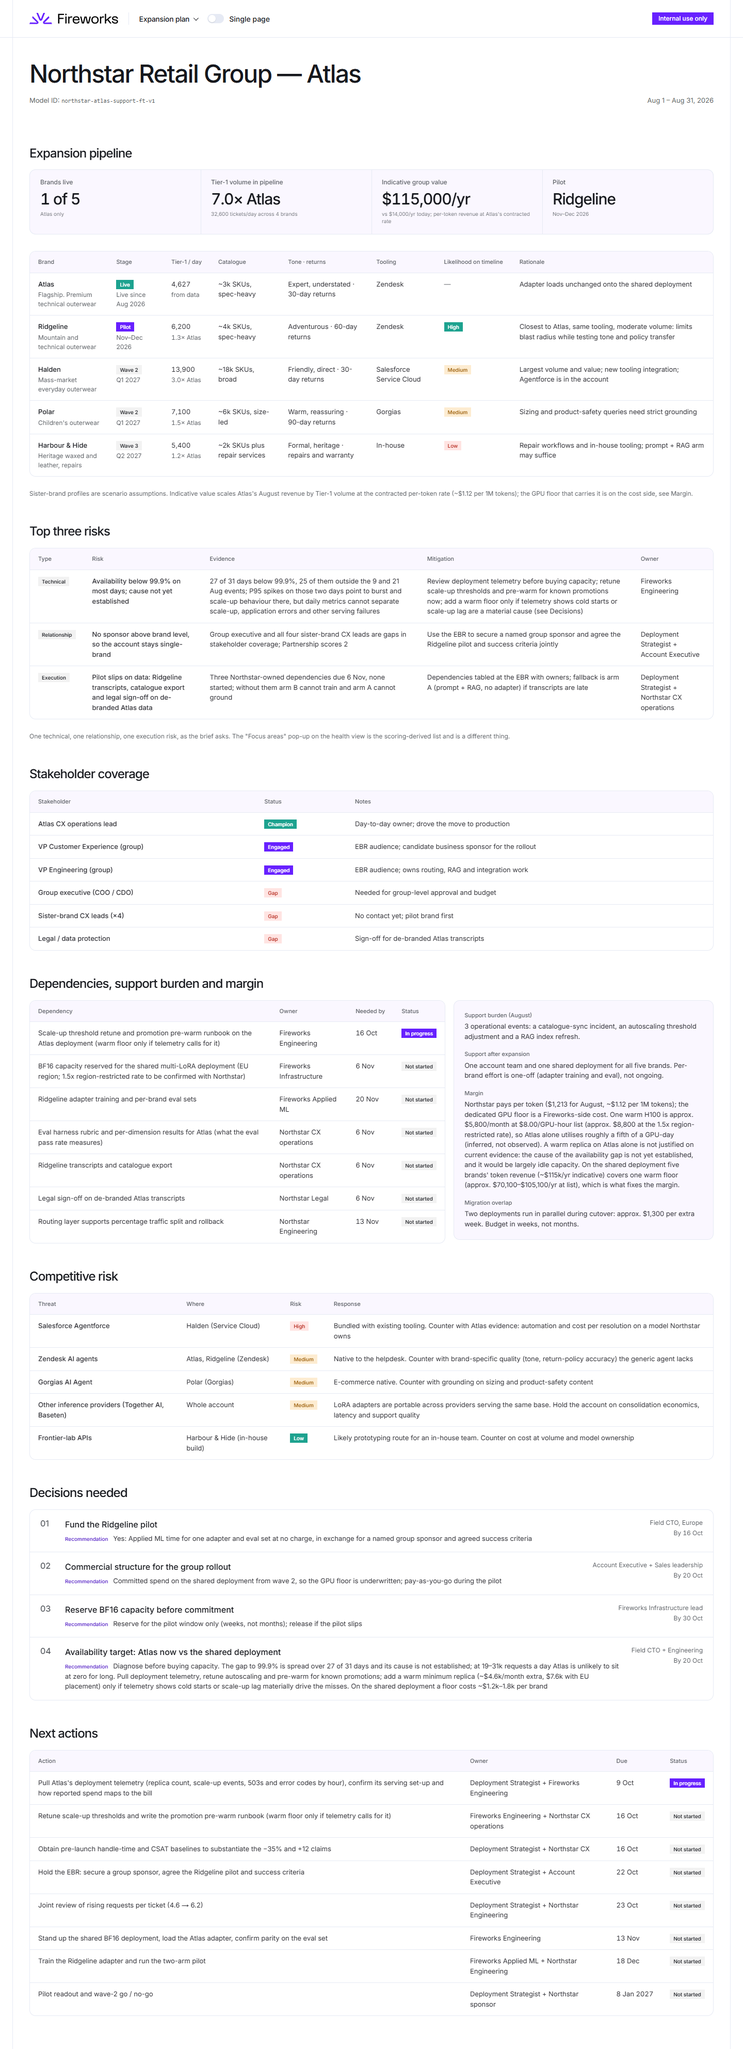
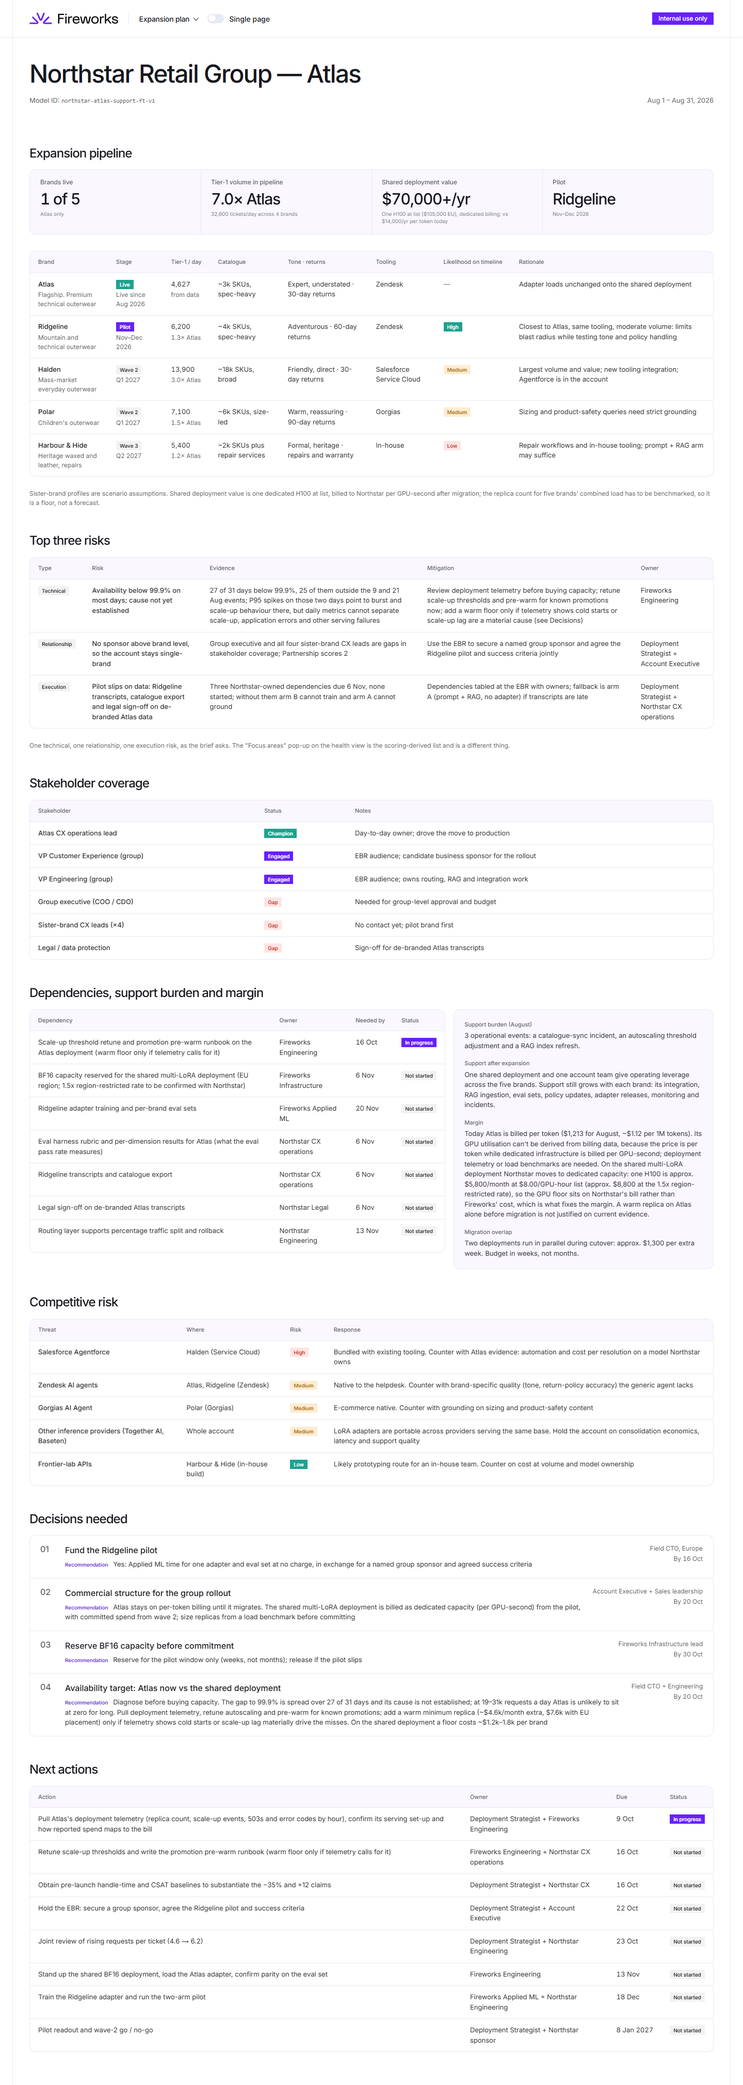
Billing: per-token today, dedicated capacity after migration; drop GPU-utilisation inference; support scales per brand (#78, #79)

diff --git a/internal-qbr/src/views/PlanView.tsx b/internal-qbr/src/views/PlanView.tsx
@@ -45,9 +45,9 @@ export function PlanView({ m }: { m: Model }) {
             sub={`${fmtInt(sisters.reduce((s, b) => s + b.tickets, 0))} tickets/day across ${sisters.length} brands`}
           />
           <KpiTile
-            label="Indicative group value"
-            value={`${fmtUsd(Math.round((atlasAnnual * groupMultiple) / 1000) * 1000)}/yr`}
-            sub={`vs ${fmtUsd(Math.round(atlasAnnual / 1000) * 1000)}/yr today; per-token revenue at Atlas's contracted rate`}
+            label="Shared deployment value"
+            value={`${fmtUsd(Math.round((WARM_H100_MONTH * 12) / 1000) * 1000)}+/yr`}
+            sub={`One H100 at list (${fmtUsd(Math.round((WARM_H100_MONTH_EU * 12) / 1000) * 1000)} EU), dedicated billing; vs ${fmtUsd(Math.round(atlasAnnual / 1000) * 1000)}/yr per token today`}
           />
           <KpiTile label="Pilot" value={pilot?.name ?? '—'} sub={pilot?.timing} />
         </div>
@@ -92,7 +92,7 @@ export function PlanView({ m }: { m: Model }) {
           </table>
         </div>
         <p className="table__caption">
-          Sister-brand profiles are scenario assumptions. Indicative value scales Atlas's August revenue by Tier-1 volume at the contracted per-token rate (~$1.12 per 1M tokens); the GPU floor that carries it is on the cost side, see Margin.
+          Sister-brand profiles are scenario assumptions. Shared deployment value is one dedicated H100 at list, billed to Northstar per GPU-second after migration; the replica count for five brands' combined load has to be benchmarked, so it is a floor, not a forecast.
         </p>
       </Section>
 
@@ -191,22 +191,22 @@ export function PlanView({ m }: { m: Model }) {
             <div>
               <dt>Support after expansion</dt>
               <dd>
-                One account team and one shared deployment for all five brands. Per-brand effort is one-off (adapter
-                training and eval), not ongoing.
+                One shared deployment and one account team give operating leverage across the five brands. Support still
+                grows with each brand: its integration, RAG ingestion, eval sets, policy updates, adapter releases,
+                monitoring and incidents.
               </dd>
             </div>
             <div>
               <dt>Margin</dt>
               <dd>
-                {`Northstar pays per token (${fmtUsd(m.totalSpend)} for August, ~$1.12 per 1M tokens); the dedicated ` +
-                  `GPU floor is a Fireworks-side cost. One warm H100 is approx. ${round100(WARM_H100_MONTH)}/month at ` +
-                  `${fmtUsd(H100_PER_HOUR, 2)}/GPU-hour list (approx. ${round100(WARM_H100_MONTH_EU)} at the ` +
-                  `${REGION_PREMIUM}x region-restricted rate), so Atlas alone utilises roughly a fifth of a GPU-day ` +
-                  `(inferred, not observed). A warm replica on Atlas alone is not justified on current evidence: the cause of ` +
-                  `the availability gap is not yet established, and it would be largely idle capacity. On the shared ` +
-                  `deployment five brands' token revenue (~$115k/yr indicative) covers one warm floor ` +
-                  `(approx. ${round100(WARM_H100_MONTH * 12)}–${round100(WARM_H100_MONTH_EU * 12)}/yr at list), which ` +
-                  `is what fixes the margin.`}
+                {`Today Atlas is billed per token (${fmtUsd(m.totalSpend)} for August, ~$1.12 per 1M tokens). Its GPU ` +
+                  `utilisation can't be derived from billing data, because the price is per token while dedicated ` +
+                  `infrastructure is billed per GPU-second; deployment telemetry or load benchmarks are needed. On the shared ` +
+                  `multi-LoRA deployment Northstar moves to dedicated capacity: one H100 is approx. ` +
+                  `${round100(WARM_H100_MONTH)}/month at ${fmtUsd(H100_PER_HOUR, 2)}/GPU-hour list (approx. ` +
+                  `${round100(WARM_H100_MONTH_EU)} at the ${REGION_PREMIUM}x region-restricted rate), so the GPU floor ` +
+                  `sits on Northstar's bill rather than Fireworks' cost, which is what fixes the margin. A warm replica on ` +
+                  `Atlas alone before migration is not justified on current evidence.`}
               </dd>
             </div>
             <div>

diff --git a/internal-qbr/src/judgements.ts b/internal-qbr/src/judgements.ts
@@ -1,5 +1,5 @@
 import { ACCOUNT } from './account';
-import { WARM_H100_MONTH, WARM_H100_MONTH_EU, fmtUsd, sum, type DailyMetric, type Judgement } from '@northstar/shared';
+import { BRANDS_ON_SHARED_DEPLOYMENT, WARM_H100_MONTH, WARM_H100_MONTH_EU, fmtUsd, sum, type DailyMetric, type Judgement } from '@northstar/shared';
 
 /**
  * Account-team judgement for the two P pillars of RAMP UP.
@@ -30,8 +30,8 @@ export function judgements(rows: DailyMetric[]): Record<'partnership' | 'profita
         'other four brands, which carry significantly higher customer volumes.',
       evidence: [
         `Current revenue: ${fmtUsd(spend)} for August at a contracted ~$1.12 per 1M tokens (approx. ${annualisedK} annualised)`,
-        'Cost to serve: three operational events in month one (catalogue-sync incident, autoscaling threshold adjustment, RAG index refresh). One account team supports all five brands on a single shared deployment, so support effort does not scale per brand',
-        `Deployment economics: Northstar pays per token while the dedicated GPU floor is a Fireworks-side cost. One warm H100 is approx. ${fmtUsd(Math.round(WARM_H100_MONTH / 100) * 100)}/month at list (approx. ${fmtUsd(Math.round(WARM_H100_MONTH_EU / 100) * 100)} at the EU rate), so Atlas alone utilises roughly a fifth of a GPU-day (inferred). No warm floor on Atlas unless telemetry shows it is needed; five brands on one multi-LoRA deployment turn any floor into utilised capacity`,
+        'Cost to serve: three operational events in month one (catalogue-sync incident, autoscaling threshold adjustment, RAG index refresh). Shared infrastructure and account-level overhead create operating leverage across the five brands, but support effort still grows with each brand: integration, RAG ingestion, eval sets, policy updates, adapter releases, monitoring and incidents',
+        `Deployment economics: Atlas is billed per token today, so its GPU utilisation can't be derived from billing; telemetry or load benchmarks are needed. On the shared multi-LoRA deployment Northstar moves to dedicated capacity billed per GPU-second: one H100 is approx. ${fmtUsd(Math.round(WARM_H100_MONTH / 100) * 100)}/month at list (approx. ${fmtUsd(Math.round(WARM_H100_MONTH_EU / 100) * 100)} at the EU rate), or approx. ${fmtUsd(Math.round(WARM_H100_MONTH / BRANDS_ON_SHARED_DEPLOYMENT / 100) * 100)}–${fmtUsd(Math.round(WARM_H100_MONTH_EU / BRANDS_ON_SHARED_DEPLOYMENT / 100) * 100)} per brand`,
         'Strategic value: a recognised retail logo and a reference account for EMEA retail',
         'Upside: rollout to the four sister brands, each with its own catalogue, tone of voice and return policies. Each brand gets a dedicated LoRA adapter, RAG index and system prompt on the same open-weight base as Atlas',
       ],

diff --git a/customer-health/src/views/SpendView.tsx b/customer-health/src/views/SpendView.tsx
@@ -78,7 +78,7 @@ export function SpendView({ m, showEvents = true }: { m: Model; showEvents?: boo
           <div>
             <dt>On the shared deployment</dt>
             <dd>
-              {`On the shared ${BRANDS_ON_SHARED_DEPLOYMENT}-brand deployment the same always-on capacity works out at approx. ` +
+              {`The shared ${BRANDS_ON_SHARED_DEPLOYMENT}-brand deployment is billed as dedicated capacity; one always-on replica works out at approx. ` +
                 `${round100(WARM_H100_MONTH / BRANDS_ON_SHARED_DEPLOYMENT)}–${round100(WARM_H100_MONTH_EU / BRANDS_ON_SHARED_DEPLOYMENT)} ` +
                 'per brand per month.'}
             </dd>

diff --git a/internal-qbr/src/plan.ts b/internal-qbr/src/plan.ts
@@ -180,7 +180,7 @@ export const DECISIONS: Decision[] = [
     decision: 'Commercial structure for the group rollout',
     owner: 'Account Executive + Sales leadership',
     by: '20 Oct',
-    recommendation: 'Committed spend on the shared deployment from wave 2, so the GPU floor is underwritten; pay-as-you-go during the pilot',
+    recommendation: 'Atlas stays on per-token billing until it migrates. The shared multi-LoRA deployment is billed as dedicated capacity (per GPU-second) from the pilot, with committed spend from wave 2; size replicas from a load benchmark before committing',
   },
   {
     decision: 'Reserve BF16 capacity before commitment',

diff --git a/docs/ARCHITECTURE.md b/docs/ARCHITECTURE.md
@@ -27,7 +27,7 @@ Every number below is from [fireworks.ai/pricing](https://fireworks.ai/pricing) 
 | 1 | Atlas is a **LoRA adapter on an open-weight base**, trained on Atlas data only | Fireworks' managed fine-tuning produces LoRA adapters |
 | 2 | Atlas is served by **live merge on its own on-demand (dedicated) deployment** | "Neither custom base models nor LoRA addons are supported for serverless inference. All user-provided models, including trained models, require a dedicated deployment." Live merge is the single-model path, with performance "indistinguishable from a fully trained model" |
 | 3 | The deployment **autoscales** | The 21 Aug note ("autoscaling threshold adjusted") is a dedicated-deployment lever; the 9 and 21 Aug P95 spikes look like replica scale-up lag under burst |
-| 4 | **`spend_usd` tracks tokens at a constant ~$1.12 per 1M** ($1.110–1.123 on every day of August); treated as **Northstar's contracted per-token rate on dedicated capacity** (enterprise terms). The GPU floor is a Fireworks-side cost. **Utilisation (~20% of a GPU-day at list rates) is inferred, not observed** | A GPU-second bill would step with replica count and sit flat when idle; this one moves with tokens to three decimals. Consistent with "custom models are dedicated-only" and the pricing page's "contact us for enterprise deployments". $1,213 at the $8.00 list rate would be ~5 H100-hours/day, which is where the ~20% figure comes from |
+| 4 | **`spend_usd` tracks tokens at a constant ~$1.12 per 1M** ($1.110–1.123 on every day of August); **Atlas is billed per token today** (scenario fact; enterprise terms). On the multi-LoRA deployment Northstar **moves to paying for dedicated capacity**, billed per GPU-second. **GPU utilisation can't be derived from billing data: the price is per token while dedicated infrastructure is billed per GPU-second, so the GPU-seconds Atlas needs come from deployment telemetry or a load benchmark (tokens ÷ achievable tokens/s for the exact model, shape and workload)** | A GPU-second bill would step with replica count and sit flat when idle; this one moves with tokens to three decimals. Dividing token spend by the GPU list price would compare a selling price with a cost, so no utilisation figure is quoted |
 
 **Reliability: what we know and what we don't.** Two claims need keeping apart: the *economics* of a warm replica (solid) and the *cause* of the availability gap (not established).
 
@@ -36,7 +36,7 @@ Every number below is from [fireworks.ai/pricing](https://fireworks.ai/pricing) 
 - **Unknown:** how much of the gap comes from scale-to-zero, replica scale-up lag, application errors or other serving failures. Atlas handles roughly 19,000–31,000 requests a day (about 800–1,300 an hour on average), so unless traffic collapses overnight it is unlikely to spend much time at zero. Daily business metrics cannot separate these causes.
 - **Action:** pull the deployment telemetry first (replica count over time, scale-up events, 503s and error codes by hour). Retune autoscaling next. Add a warm minimum replica only if telemetry shows cold starts or scale-up lag are a material driver.
 
-**The economics, if a floor is needed.** One warm H100 is ~$5.8k/month at list (~$8.8k EU-only) against ~$1.2k/month of Atlas token revenue, so on Atlas alone it means either Fireworks carrying mostly idle capacity or Northstar committing to a minimum 4–7x its current bill. On the shared deployment the same floor is ~$1.2k–1.8k per brand, roughly Atlas's bill today. So a warm floor is cheap once five brands share it, and hard to justify for Atlas alone without evidence that it fixes the problem.
+**The economics, if a floor is needed.** One warm H100 is ~$5.8k/month at list (~$8.8k EU-only) against Atlas's ~$1.2k/month token bill, so on Atlas alone it means moving Atlas from per-token billing to dedicated capacity at 4–7x its current bill. On the shared deployment the same floor is ~$1.2k–1.8k per brand, roughly Atlas's bill today. So a warm floor is cheap once five brands share it, and hard to justify for Atlas alone without evidence that it fixes the problem.
 
 ## Recommendation
 
@@ -128,11 +128,10 @@ Scoring stays on month averages (decision #16); the week-4 figures are used only
 
 ## Deployment economics
 
-- A dedicated deployment has a GPU floor, so it only pays for itself above a utilisation threshold.
-- At Atlas's current volume, one brand can't keep a warm GPU well utilised.
-- Five brands on one deployment share the floor (about $1.2k per brand per month at one warm H100; $1.8k at the EU rate).
-- **Revenue and cost are separate lines.** Revenue is per token at the contracted rate, so it scales with volume: ~$115k/yr indicative across the group. The GPU floor is cost: one warm H100 is ~$70k/yr at list ($105k EU), two floors under the tiered plan ~$140k/yr ($210k EU). Group token revenue covers one shared floor; a second floor (Halden on its own deployment) needs Halden's volume, or revised commercial terms, to pay for itself. List rates overstate Fireworks' actual GPU cost, so treat these as the capacity's opportunity cost.
-- That's why the shared deployment belongs in the expansion plan and not in month one. It also ties directly to the Profitability score (1) in RAMP UP.
+- **Today: per-token billing.** Atlas costs Northstar ~$1.2k/month (~$1.12 per 1M tokens, ~$14k/yr). GPU utilisation can't be derived from billing data: the price is per token while dedicated infrastructure is billed per GPU-second, so the GPU-seconds Atlas needs come from deployment telemetry or a load benchmark (tokens ÷ achievable tokens/s for the exact model, shape and workload).
+- **After migration: dedicated capacity.** Northstar pays for the shared multi-LoRA deployment per GPU-second: one H100 is ~$5.8k/month at list (~$70k/yr), ~$8.8k EU-only (~$105k/yr). Shared by five brands that is ~$1.2k–1.8k per brand per month, roughly Atlas's bill today.
+- **How many replicas** depends on the combined five-brand load, which has to be benchmarked on the chosen base model and shape before capacity is committed. Halden on its own deployment later adds a second floor once its volume justifies it.
+- **Why this sits in the expansion plan, not month one.** For Atlas alone, dedicated capacity is 4–7x today's bill; across five brands it is comparable per brand. The move from per-token to dedicated billing is also what makes the account commercially meaningful to Fireworks, which ties to the Profitability score (1) in RAMP UP.
 
 ## Pilot: two arms
 

diff --git a/docs/DECISIONS.md b/docs/DECISIONS.md
@@ -110,3 +110,5 @@ Scoring-specific detail (bands, sources, formulas) lives in [RAMPUP.md](RAMPUP.m
 | 75 | 2026-10-05 | **Model-quality bands relabelled as account-team quality gates, anchored to common evaluation-framework practice.** Metrics unchanged (grounded answers + eval pass, 95/90/85/80). RAMPUP.md now says RAGAS's 0.90/0.95 is an example CI configuration we borrowed as the 5 and 4 edges, and Foundry supplies the evaluator structure (components, composite passes only if all pass) but no scale | The earlier wording implied RAGAS and Foundry establish the 5-point scale; neither does. Saying so is more defensible than overstating the sources | Presenting RAGAS/Foundry as the benchmark for the full scale |
 | 76 | 2026-10-05 | **Eval pass rate treated as an unconfirmed definition; production eval hierarchy recommended.** The internal note and RAMPUP.md now say the dataset gives the rate without its rubric and we assume an end-to-end quality gate for planning. RAMPUP.md adds the recommended hierarchy (overall pass → grounding → policy compliance → task completion → tool-call correctness → escalation correctness → tone/brand), the pilot measures eval pass by dimension, and the rubric is a Northstar dependency due 6 Nov on both dashboards | We don't know what the supplied field measures; saying so and proposing the breakdown is stronger than asserting a definition | Keeping the assumed composite stated as fact |
 | 77 | 2026-10-05 | **Adapters learn behaviour, not policy facts.** Wording changed from "tone and policy behaviour" to "stable tone, workflow and policy-following behaviour" (ARCHITECTURE.md, pilot arm, EBR slides 4–5). Policy facts (return windows, warranty terms) sit in each brand's RAG index or config; a new decision-rule row says so | Facts change and must not be baked into weights; how to follow a policy (explain the rule, offer escalation, never invent an exception) is stable and good fine-tuning material | Leaving "policy" in the adapter's remit |
+| 78 | 2026-10-05 | **Billing model made explicit; GPU-utilisation estimate removed.** Atlas is billed per token today; on the multi-LoRA deployment Northstar moves to paying for dedicated capacity per GPU-second, so the GPU floor sits on Northstar's bill, not Fireworks' cost. "Atlas utilises roughly a fifth of a GPU-day" removed everywhere; the internal "Indicative group value" tile ($115k/yr, token revenue scaled by volume) became "Shared deployment value" ($70k+/yr: one dedicated H100 at list, $105k EU; replicas to be benchmarked). Commercial-structure decision, margin card, profitability evidence, ARCHITECTURE.md economics, README, DESIGN.md, RAMPUP.md and the customer Spend card updated | Dividing token spend by the GPU list price compares a selling price with a cost, so it says nothing about utilisation; that needs telemetry or a load benchmark (tokens ÷ achievable tokens/s for the model, shape and workload). Abbz confirmed the move to dedicated billing | Keeping the ~20% utilisation inference; Fireworks absorbing the GPU floor under per-token pricing |
+| 79 | 2026-10-05 | **Support effort scales per brand; the advantage is operating leverage.** Replaced "support effort does not scale per brand" (profitability evidence, RAMPUP.md) and "per-brand effort is one-off, not ongoing" (Plan view) with: shared infrastructure and account-level overhead create operating leverage, while each brand still adds integration, RAG ingestion, eval sets, policy updates, adapter releases, monitoring and incidents | Infrastructure doesn't scale linearly per brand, but support does; claiming otherwise isn't credible | Keeping the flat-support claim |

diff --git a/docs/RAMPUP.md b/docs/RAMPUP.md
@@ -149,7 +149,7 @@ Set by the account team in [`internal-qbr/src/judgements.ts`](../internal-qbr/sr
 | Pillar | Score | Rationale |
 |---|---|---|
 | Partnership | **2** | Live on one brand out of five. The flagship team is engaged, but the wider business hasn't bought in: the four sister brands have no commitment, sponsor or timeline. Next step is an executive sponsor above brand level at the EBR. |
-| Profitability | **1** | Scored from Fireworks' side. Current revenue is immaterial relative to the revenue ceiling across Northstar: $1,213 for August at a contracted ~$1.12 per 1M tokens, approx. $14k annualised. The Atlas deployment serves as a proof of concept to secure approval for rollouts across the other four brands, which carry significantly higher customer volumes (scenario assumption, to be backed by the brand profiles). **Cost to serve:** three operational events in month one (catalogue-sync incident, autoscaling threshold adjustment, RAG index refresh); one account team supports all five brands on a single shared deployment, so support effort does not scale per brand. **Strategic value:** a recognised retail logo and an EMEA retail reference account. **Deployment economics:** Northstar pays per token while the dedicated GPU floor is a Fireworks-side cost: one warm H100 is approx. $5.8k/month at list, approx. $8.8k at the 1.5x region-restricted rate (fireworks.ai/pricing, 5 Oct 2026). Atlas alone utilises roughly a fifth of a GPU-day (inferred, not observed), so it stays scale-to-zero; five brands' token revenue on one multi-LoRA deployment covers a warm floor, which is what fixes the margin (see [ARCHITECTURE.md](ARCHITECTURE.md)). |
+| Profitability | **1** | Scored from Fireworks' side. Current revenue is immaterial relative to the revenue ceiling across Northstar: $1,213 for August at a contracted ~$1.12 per 1M tokens, approx. $14k annualised. The Atlas deployment serves as a proof of concept to secure approval for rollouts across the other four brands, which carry significantly higher customer volumes (scenario assumption, to be backed by the brand profiles). **Cost to serve:** three operational events in month one (catalogue-sync incident, autoscaling threshold adjustment, RAG index refresh); shared infrastructure and account-level overhead create operating leverage across the five brands, but support effort still grows with each brand (integration, RAG ingestion, eval sets, policy updates, adapter releases, monitoring, incidents). **Strategic value:** a recognised retail logo and an EMEA retail reference account. **Deployment economics:** Atlas is billed per token today; its GPU utilisation can't be derived from billing data (token price vs GPU-second infrastructure) and needs telemetry or load benchmarks. On the shared multi-LoRA deployment Northstar moves to dedicated capacity: one H100 is approx. $5.8k/month at list, approx. $8.8k at the 1.5x region-restricted rate (fireworks.ai/pricing, 5 Oct 2026), approx. $1.2k–1.8k per brand. That puts the GPU floor on Northstar's bill, which is what fixes the margin (see [ARCHITECTURE.md](ARCHITECTURE.md)). |
 
 ## Current result (Aug 1–31, 2026, full-period averages)
 

diff --git a/docs/DESIGN.md b/docs/DESIGN.md
@@ -84,7 +84,7 @@ Two dashboards built from the same August dataset: an **internal QBR** for Firew
 ## 8. Assumptions, caveats and trade-offs
 
 **Data and scenario**
-- **Billing:** `spend_usd` tracks tokens at a constant ~$1.12 per 1M ($1.110–1.123 on every day), so it's treated as Northstar's contracted per-token rate on dedicated capacity. The GPU floor is a Fireworks-side cost, and utilisation (~20% of a GPU-day at list rates) is inferred, not observed.
+- **Billing:** `spend_usd` tracks tokens at a constant ~$1.12 per 1M ($1.110–1.123 on every day), so Atlas is billed per token today; on the multi-LoRA deployment Northstar moves to paying for dedicated capacity per GPU-second. GPU utilisation can't be derived from token billing and is not quoted; it needs telemetry or load benchmarks.
 - **Atlas** is a LoRA adapter on an open-weight base, trained on Atlas data only, served by live merge on its own autoscaling dedicated deployment. Custom models can't run serverless on Fireworks.
 - **Latency** columns are assumed to be time-to-first-token (331 output tokens in ~600 ms end-to-end isn't plausible).
 - **Brands and names:** Northstar is an outerwear holding company; Atlas is the flagship. The four sister brands (Ridgeline, Halden, Polar, Harbour & Hide) are invented because the brief's descriptions were not supplied.

diff --git a/README.md b/README.md
@@ -91,7 +91,7 @@ Full list in [`docs/DESIGN.md`](docs/DESIGN.md) §8 and [`docs/ARCHITECTURE.md`]
 - **Sister brands:** Ridgeline, Halden, Polar and Harbour & Hide, with their volumes, catalogues and tooling, are invented. The brief's brand descriptions were not supplied.
 - **Pre-launch baselines:** not in the data. The brief's −35% handle time and +12 CSAT are labelled as baseline comparisons supplied by Northstar.
 - **99.9% availability:** a proposed target. No SLA was in place for August.
-- **Billing:** `spend_usd` tracks tokens at a constant ~$1.12 per 1M, so it's treated as Northstar's contracted per-token rate. GPU utilisation is inferred, not observed.
+- **Billing:** `spend_usd` tracks tokens at a constant ~$1.12 per 1M: Atlas is billed per token today, and Northstar moves to paying for dedicated capacity on the multi-LoRA deployment. GPU utilisation can't be derived from token billing, so none is quoted.
 - **Pricing:** fireworks.ai/pricing as of 5 Oct 2026. All code constants live in `shared/src/pricing.ts`.
 
 ## Project layout
